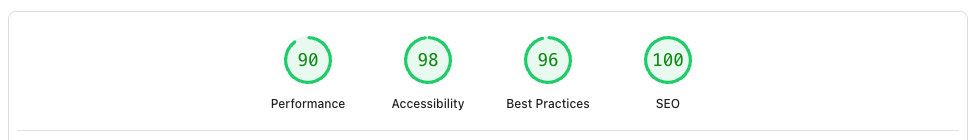
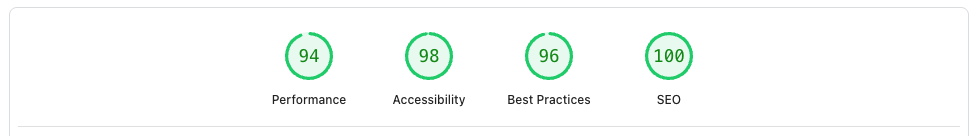
Add screenshots to testing.md

diff --git a/my_project/settings.py b/my_project/settings.py
@@ -28,7 +28,7 @@ BASE_DIR = Path(__file__).resolve().parent.parent
 SECRET_KEY = 'django-insecure-z+j2u=b=e=y=xh$)j3-w4vy0zxsz%52!2p84lu#1p+4%9xp2-$'   # noqa
 
 # SECURITY WARNING: don't run with debug turned on in production!
-DEBUG = True
+DEBUG = False
 
 ALLOWED_HOSTS = ['.herokuapp.com', '127.0.0.1']
 

diff --git a/TESTING.md b/TESTING.md
@@ -47,9 +47,9 @@ I have used the recommended [HTML W3C Validator](https://validator.w3.org) to va
 | registration | [account.html](https://github.com/ssannejohansson/MP3-bark-and-brush/blob/main/my_project/templates/registration/account.html) | [URL](https://validator.w3.org/nu/?doc=https%3A%2F%2Fbark-and-brush-dba8d291cd80.herokuapp.com%2Faccounts%2Faccount%2F) | ![screenshot](documentation/validation/html-booking-account.png) | ⚠ Notes: See below. |
 | registration | [login.html](https://github.com/ssannejohansson/MP3-bark-and-brush/blob/main/my_project/templates/registration/login.html) | [URL](https://validator.w3.org/nu/?doc=https%3A%2F%2Fbark-and-brush-dba8d291cd80.herokuapp.com%2Faccounts%2Flogin%2F) | ![screenshot](documentation/validation/html-booking-login.png) |  |
 | registration | [signup.html](https://github.com/ssannejohansson/MP3-bark-and-brush/blob/main/my_project/templates/registration/signup.html) |[URL](https://validator.w3.org/nu/?doc=https%3A%2F%2Fbark-and-brush-dba8d291cd80.herokuapp.com%2Faccounts%2Fsignup%2F) | ![screenshot](documentation/validation/html-booking-signup.png) | ⚠ Notes: See below. |
-| registration| [password_reset_complete.html](https://github.com/ssannejohansson/MP3-bark-and-brush/blob/main/my_project/templates/registration/password_reset_complete.html) | [URL](https://validator.w3.org/nu/?doc=https%3A%2F%2Fbark-and-brush-dba8d291cd80.herokuapp.com%2Faccounts%2Freset%2Fdone%2F) | ![screenshot](documentation/validation/html-booking-password-reset-complete.png) | ⚠ Notes (if applicable) |
-| registration | [password_reset_confirm.html](https://github.com/ssannejohansson/MP3-bark-and-brush/blob/main/my_project/templates/registration/password_reset_confirm.html) | [URL](https://validator.w3.org/nu/?doc=https%3A%2F%2Fbark-and-brush-dba8d291cd80.herokuapp.com%2Faccounts%2Freset%2FMQ%2Fset-password%2F) | ![screenshot](documentation/validation/html-booking-password-reset-confirm.png) | ⚠ Notes (if applicable) |
-| registration | [password_reset_done.html](https://github.com/ssannejohansson/MP3-bark-and-brush/blob/main/my_project/templates/registration/password_reset_done.html) | [URL](https://validator.w3.org/nu/?doc=https%3A%2F%2Fbark-and-brush-dba8d291cd80.herokuapp.com%2Faccounts%2Fpassword_reset%2Fdone%2F) | ![screenshot](documentation/validation/html-booking-password-reset-done.png) | ⚠ Notes (if applicable) |
+| registration| [password_reset_complete.html](https://github.com/ssannejohansson/MP3-bark-and-brush/blob/main/my_project/templates/registration/password_reset_complete.html) | [URL](https://validator.w3.org/nu/?doc=https%3A%2F%2Fbark-and-brush-dba8d291cd80.herokuapp.com%2Faccounts%2Freset%2Fdone%2F) | ![screenshot](documentation/validation/html-booking-password-reset-complete.png) |  |
+| registration | [password_reset_confirm.html](https://github.com/ssannejohansson/MP3-bark-and-brush/blob/main/my_project/templates/registration/password_reset_confirm.html) | [URL](https://validator.w3.org/nu/?doc=https%3A%2F%2Fbark-and-brush-dba8d291cd80.herokuapp.com%2Faccounts%2Freset%2FMQ%2Fset-password%2F) | ![screenshot](documentation/validation/html-booking-password-reset-confirm.png) |  |
+| registration | [password_reset_done.html](https://github.com/ssannejohansson/MP3-bark-and-brush/blob/main/my_project/templates/registration/password_reset_done.html) | [URL](https://validator.w3.org/nu/?doc=https%3A%2F%2Fbark-and-brush-dba8d291cd80.herokuapp.com%2Faccounts%2Fpassword_reset%2Fdone%2F) | ![screenshot](documentation/validation/html-booking-password-reset-done.png) | |
 | registration | [password_reset_form.html](https://github.com/ssannejohansson/MP3-bark-and-brush/blob/main/my_project/templates/registration/password_reset_form.html) | [URL](https://validator.w3.org/nu/?doc=https%3A%2F%2Fbark-and-brush-dba8d291cd80.herokuapp.com%2Faccounts%2Fpassword_reset%2F) | ![screenshot](documentation/validation/html-booking-password-reset-form.png) | ⚠ Notes: See below. |
 | my_project | [404.html](https://github.com/ssannejohansson/MP3-bark-and-brush/blob/main/my_project/templates/404.html) | Validated by direct input | ![screenshot](documentation/validation/html-my_project-404.png) | ⚠ Notes: See below. |
 | my_project | [about.html](https://github.com/ssannejohansson/MP3-bark-and-brush/blob/main/my_project/templates/about.html) | [URL](https://validator.w3.org/nu/?doc=https%3A%2F%2Fbark-and-brush-dba8d291cd80.herokuapp.com%2Fabout%2F)| ![screenshot](documentation/validation/html-my_project-about.png) | ⚠ Notes: see below. |
@@ -139,18 +139,18 @@ I have used the recommended [PEP8 CI Python Linter](https://pep8ci.herokuapp.com
 | --- | --- | --- | --- | --- |
 | accounts | [admin.py](https://github.com/ssannejohansson/MP3-bark-and-brush/blob/main/accounts/admin.py) | [PEP8 CI Link](https://pep8ci.herokuapp.com/https://raw.githubusercontent.com/ssannejohansson/MP3-bark-and-brush/main/accounts/admin.py) | | ⚠ Notes: Empty file  |
 | accounts | [models.py](https://github.com/ssannejohansson/MP3-bark-and-brush/blob/main/accounts/models.py) | [PEP8 CI Link](https://pep8ci.herokuapp.com/https://raw.githubusercontent.com/ssannejohansson/MP3-bark-and-brush/main/accounts/models.py) | | ⚠ Notes: Empty file |
-| accounts | [tests.py](https://github.com/ssannejohansson/MP3-bark-and-brush/blob/main/accounts/tests.py) | [PEP8 CI Link](https://pep8ci.herokuapp.com/https://raw.githubusercontent.com/ssannejohansson/MP3-bark-and-brush/main/accounts/tests.py) | ![screenshot](documentation/validation/py-accounts-tests.png) | ⚠ Notes (if applicable) |
+| accounts | [tests.py](https://github.com/ssannejohansson/MP3-bark-and-brush/blob/main/accounts/tests.py) | [PEP8 CI Link](https://pep8ci.herokuapp.com/https://raw.githubusercontent.com/ssannejohansson/MP3-bark-and-brush/main/accounts/tests.py) |  | ⚠ Notes: Empty file |
 | accounts | [urls.py](https://github.com/ssannejohansson/MP3-bark-and-brush/blob/main/accounts/urls.py) | [PEP8 CI Link](https://pep8ci.herokuapp.com/https://raw.githubusercontent.com/ssannejohansson/MP3-bark-and-brush/main/accounts/urls.py) | ![screenshot](documentation/validation/py-accounts-urls.png) | |
 | accounts | [views.py](https://github.com/ssannejohansson/MP3-bark-and-brush/blob/main/accounts/views.py) | [PEP8 CI Link](https://pep8ci.herokuapp.com/https://raw.githubusercontent.com/ssannejohansson/MP3-bark-and-brush/main/accounts/views.py) | ![screenshot](documentation/validation/py-accounts-views.png) |  |
 | booking | [admin.py](https://github.com/ssannejohansson/MP3-bark-and-brush/blob/main/booking/admin.py) | [PEP8 CI Link](https://pep8ci.herokuapp.com/https://raw.githubusercontent.com/ssannejohansson/MP3-bark-and-brush/main/booking/admin.py) | ![screenshot](documentation/validation/py-booking-admin.png) | |
 | booking | [forms.py](https://github.com/ssannejohansson/MP3-bark-and-brush/blob/main/booking/forms.py) | [PEP8 CI Link](https://pep8ci.herokuapp.com/https://raw.githubusercontent.com/ssannejohansson/MP3-bark-and-brush/main/booking/forms.py) | ![screenshot](documentation/validation/py-booking-forms.png) |  |
 | booking | [models.py](https://github.com/ssannejohansson/MP3-bark-and-brush/blob/main/booking/models.py) | [PEP8 CI Link](https://pep8ci.herokuapp.com/https://raw.githubusercontent.com/ssannejohansson/MP3-bark-and-brush/main/booking/models.py) | ![screenshot](documentation/validation/py-booking-models.png) | |
-| booking | [tests.py](https://github.com/ssannejohansson/MP3-bark-and-brush/blob/main/booking/tests.py) | [PEP8 CI Link](https://pep8ci.herokuapp.com/https://raw.githubusercontent.com/ssannejohansson/MP3-bark-and-brush/main/booking/tests.py) | ![screenshot](documentation/validation/py-booking-tests.png) | ⚠ Notes (if applicable) |
+| booking | [tests.py](https://github.com/ssannejohansson/MP3-bark-and-brush/blob/main/booking/tests.py) | [PEP8 CI Link](https://pep8ci.herokuapp.com/https://raw.githubusercontent.com/ssannejohansson/MP3-bark-and-brush/main/booking/tests.py) | | ⚠ Notes: Empty file |
 | booking | [urls.py](https://github.com/ssannejohansson/MP3-bark-and-brush/blob/main/booking/urls.py) | [PEP8 CI Link](https://pep8ci.herokuapp.com/https://raw.githubusercontent.com/ssannejohansson/MP3-bark-and-brush/main/booking/urls.py) | ![screenshot](documentation/validation/py-booking-urls.png) | |
 | booking | [views.py](https://github.com/ssannejohansson/MP3-bark-and-brush/blob/main/booking/views.py) | [PEP8 CI Link](https://pep8ci.herokuapp.com/https://raw.githubusercontent.com/ssannejohansson/MP3-bark-and-brush/main/booking/views.py) | ![screenshot](documentation/validation/py-booking-views.png) |  |
 | main | [admin.py](https://github.com/ssannejohansson/MP3-bark-and-brush/blob/main/main/admin.py) | [PEP8 CI Link](https://pep8ci.herokuapp.com/https://raw.githubusercontent.com/ssannejohansson/MP3-bark-and-brush/main/main/admin.py) || ⚠ Notes: Empty file |
 | main | [models.py](https://github.com/ssannejohansson/MP3-bark-and-brush/blob/main/main/models.py) | [PEP8 CI Link](https://pep8ci.herokuapp.com/https://raw.githubusercontent.com/ssannejohansson/MP3-bark-and-brush/main/main/models.py) |  | ⚠ Notes: Empty file |
-| main | [tests.py](https://github.com/ssannejohansson/MP3-bark-and-brush/blob/main/main/tests.py) | [PEP8 CI Link](https://pep8ci.herokuapp.com/https://raw.githubusercontent.com/ssannejohansson/MP3-bark-and-brush/main/main/tests.py) | ![screenshot](documentation/validation/py-main-tests.png) | ⚠ Notes (if applicable) |
+| main | [tests.py](https://github.com/ssannejohansson/MP3-bark-and-brush/blob/main/main/tests.py) | [PEP8 CI Link](https://pep8ci.herokuapp.com/https://raw.githubusercontent.com/ssannejohansson/MP3-bark-and-brush/main/main/tests.py) |  | ⚠ Notes: Empty file |
 | main | [urls.py](https://github.com/ssannejohansson/MP3-bark-and-brush/blob/main/main/urls.py) | [PEP8 CI Link](https://pep8ci.herokuapp.com/https://raw.githubusercontent.com/ssannejohansson/MP3-bark-and-brush/main/main/urls.py) | ![screenshot](documentation/validation/py-main-urls.png) | |
 | main | [views.py](https://github.com/ssannejohansson/MP3-bark-and-brush/blob/main/main/views.py) | [PEP8 CI Link](https://pep8ci.herokuapp.com/https://raw.githubusercontent.com/ssannejohansson/MP3-bark-and-brush/main/main/views.py) | ![screenshot](documentation/validation/py-main-views.png) | |
 |  | [manage.py](https://github.com/ssannejohansson/MP3-bark-and-brush/blob/main/manage.py) | [PEP8 CI Link](https://pep8ci.herokuapp.com/https://raw.githubusercontent.com/ssannejohansson/MP3-bark-and-brush/main/manage.py) | ![screenshot](documentation/validation/py--manage.png) |  |
@@ -239,6 +239,9 @@ I've tested my deployed project using the Lighthouse Audit tool to check for any
 | Password Reset Confirm | ![screenshot](documentation/lighthouse/mobile-password-reset-confirm.png) | ![screenshot](documentation/lighthouse/desktop-password-reset-confirm.png) |
 | Password Reset Done | ![screenshot](documentation/lighthouse/mobile-password-reset-done.png) | ![screenshot](documentation/lighthouse/desktop-password-reset-done.png) |
 | Password Reset Form | ![screenshot](documentation/lighthouse/mobile-password-reset-form.png) | ![screenshot](documentation/lighthouse/desktop-password-reset-form.png) |
+
+⚠ NOTES: 
+The lower performance scores on certain pages are primarily attributed to image sizes, despite having already been compressed. Given the website’s relatively small scale, I chose to leave them as they are for now. However, I recognize that in a real-world or larger-scale project with more images, further optimization and compression would be necessary to enhance performance.
 
 ## Defensive Programming
 
